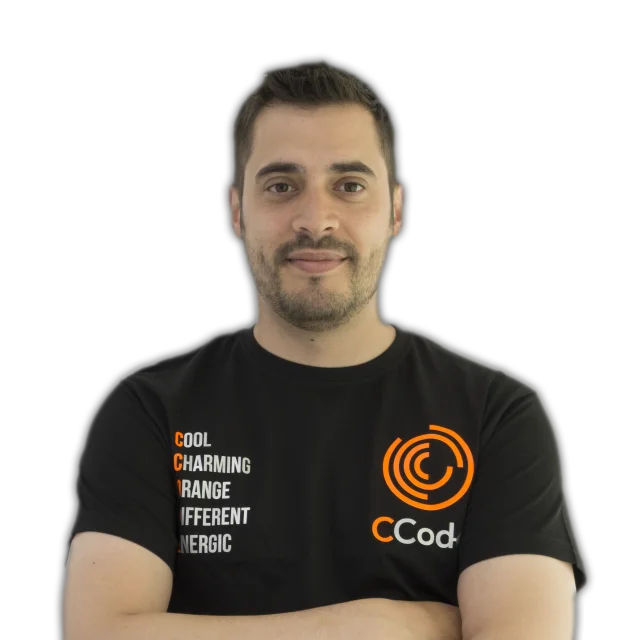
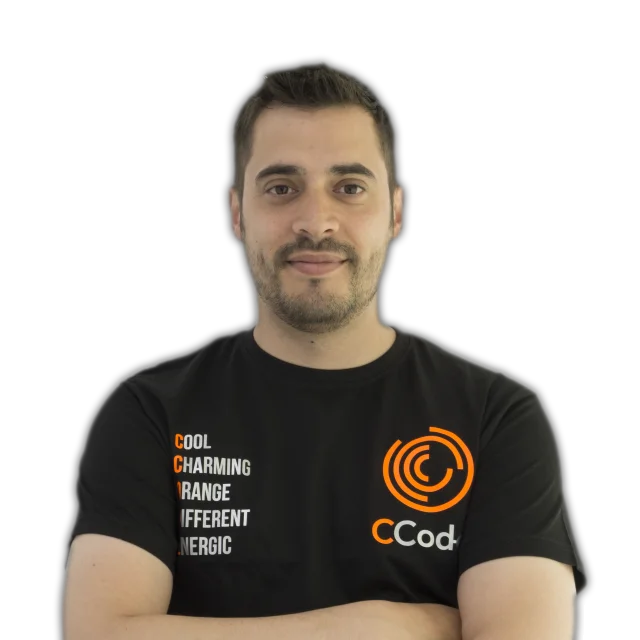
Some more team images changes

diff --git a/css/style.min.css b/css/style.min.css
@@ -1,1 +1,1 @@
-@import url(font-awesome.min.css);@import url(simpletextrotator.css);@import url(overwrite.css);@import url(animate.css);*{-webkit-overflow-scrolling:touch!important}.paddingHB{padding:15% 0 15% 0!important}.balloon{width:120px;height:145px;padding-top:5%;background:#f05f40;border-radius:80%;position:relative;box-shadow:inset -10px -10px 0 rgba(0,0,0,.07);margin:0 auto;transition:transform .5s ease;z-index:10;animation:balloons 4s ease-in-out infinite;transform-origin:bottom center}@keyframes balloons{0%,100%{transform:translateY(0) rotate(-4deg)}50%{transform:translateY(-25px) rotate(4deg)}}.balloon:before{content:"▲";font-size:20px;color:#f05f40;display:block;text-align:center;width:100%;position:absolute;bottom:-12px;z-index:-100}.balloon:after{top:153px;position:absolute;height:250px;width:1px;margin:0 auto;content:"";background:rgba(0,0,0,.2)}.balloon:nth-child(2){background:#8782c9;animation-duration:3.5s}.balloon:nth-child(2):before{color:#8782c9}.balloon:nth-child(3){background:#65cc86;animation-duration:3s}.balloon:nth-child(3):before{color:#59a571}.balloon:nth-child(4){background:#c9c75e;animation-duration:4.5s}.balloon:nth-child(4):before{color:#a9a85f}.balloon:nth-child(5){background:#cd8355;animation-duration:5s}.balloon:nth-child(5):before{color:#a86941}.workGPU{-webkit-transform:rotateZ(360deg);-moz-transform:rotateZ(360deg);-ms-transform:rotateZ(360deg);-o-transform:rotateZ(360deg);transform:rotateZ(360deg);backface-visibility:hidden;perspective:1000}::-webkit-scrollbar-track{-webkit-box-shadow:inset 0 0 6px rgba(0,0,0,.3);border-radius:10px;background-color:#f5f5f5}::-webkit-scrollbar{width:8px;height:8px;border-radius:10px;background-color:#f5f5f5}::-webkit-scrollbar-thumb{border-radius:10px;-webkit-box-shadow:inset 0 0 6px rgba(0,0,0,.3);background-color:#bdbdbd}body{text-align:center;font-size:14px;line-height:1.6em}h1{font-size:36px}h2{font-size:32px}h3{font-size:28px}h4{font-size:24px}h5{font-size:20px}h6{font-size:18px}.h1,.h2,.h3,.h4,.h5,.h6,h1,h2,h3,h4,h5,h6{color:#3a3a3a;font-weight:700;margin-bottom:20px;font-family:Montserrat,sans-serif}textarea{resize:none}#particles-js{width:100%;height:100%;background-image:url('');background-size:cover;background-position:50% 50%;background-repeat:no-repeat;opacity:.2}.lead{font-weight:400}.noselect{-webkit-touch-callout:none;-webkit-user-select:none;-khtml-user-select:none;-moz-user-select:none;-ms-user-select:none;user-select:none}.loadingContainer{position:fixed;top:0;left:0;padding:0!important;height:100%;width:100%;z-index:99999;flex-flow:row wrap;justify-content:space-around}.loadingContainer .item{width:100%;height:100%;background:rgba(246,249,255,.8);border-radius:3px;position:relative}.loadingContainer .loader{width:10px;height:48px;background:#e64a19;position:relative;animation:loaderAnimation 1s ease-in-out infinite;animation-delay:.4s;top:50%;margin:-28px auto 0}.loadingContainer .loader::after,.loadingContainer .loader::before{content:'';position:absolute;width:10px;height:48px;background:#e64a19;animation:loaderAnimation 1s ease-in-out infinite}.loadingContainer .loader::before{right:18px;animation-delay:.2s}.loadingContainer .loader::after{left:18px;animation-delay:.6s}@keyframes loaderAnimation{0%,100%{box-shadow:0 0 0 #e64a19,0 0 0 #e64a19}50%{box-shadow:0 -8px 0 #e64a19,0 8px 0 #e64a19}}button{display:inline-block;margin-bottom:0;margin-bottom:10px;padding:6px 12px;border:1px solid transparent;vertical-align:middle;text-align:center;white-space:nowrap;font-weight:400;font-size:14px;line-height:1.428571429;cursor:pointer;-webkit-user-select:none;-moz-user-select:none;-ms-user-select:none;-o-user-select:none;user-select:none}button.navbar-toggle{background:#2b2b2b;border:none;color:#fff}.btn-theme,.btn-theme:focus,.btn-theme:hover{color:#fff;border-radius:25px;outline:0!important}.btn-theme:hover{background:0 0!important;border-color:#999;color:#999}.low-shadow{box-shadow:0 10px 20px rgba(0,0,0,.19),0 6px 6px rgba(0,0,0,.23)}.parallax h2,.parallax p{text-shadow:0 3px 6px rgba(0,0,0,.16),0 3px 6px rgba(0,0,0,.23)}.serviceIMG{width:80%;display:block;margin-left:auto;margin-right:auto;transition:transform .4s ease}.serviceIMG:hover{transform:scale(1.4);box-shadow:0 14px 28px rgba(0,0,0,.25),0 10px 10px rgba(0,0,0,.22)}.contact-interaction{transition:transform .5s ease}.contact-interaction:hover{transform:scale(1.3)}.InputAddOn{display:flex;transition:border-color ease-in-out .15s,box-shadow ease-in-out .15s}.InputAddOn-field{flex:1}.InputAddOn-field:not(:first-child){border-left:0}.InputAddOn-field:not(:last-child){border-right:0}.form-control{height:auto!important}.InputAddOn-item{background-color:rgba(147,128,108,.1);color:#666;font:inherit;font-weight:400}.InputAddOn-field,.InputAddOn-item{border:1px solid rgba(147,128,108,.25);padding:.5em .75em}.InputAddOn-field:first-child,.InputAddOn-item:first-child{border-radius:2px 0 0 2px}.InputAddOn-field:last-child,.InputAddOn-item:last-child{border-radius:0 2px 2px 0}.tippy-tooltip.ccode-theme{background-color:#f05f40}.tippy-tooltip.ccode-theme[data-animatefill]{background-color:transparent}.tippy-tooltip.ccode-theme .tippy-backdrop{background-color:#f05f40}.tippy-tooltip.ccode-theme[x-placement^=bottom] .tippy-arrow{border-bottom-color:#f05f40!important}.imgFlag{box-shadow:0 1px 3px rgba(0,0,0,.12),0 1px 2px rgba(0,0,0,.24)}@media (min-width:1025px){.navbar-default .navbar-brand{padding:5%!important}.introTitle{text-align:center;overflow:hidden;transition:all .4s linear}.introTitle h2{font-size:28px!important;text-shadow:0 3px 6px rgba(0,0,0,.16),0 3px 6px rgba(0,0,0,.23)}.introTitle div{display:inline-block;overflow:hidden;white-space:nowrap}.introTitle div:first-of-type{animation:showup 10s infinite}.introTitle div:last-of-type{width:0;animation:reveal 10s infinite}.introTitle div:last-of-type h2{margin-left:-850px;animation:slidein 10s infinite}@keyframes showup{0%{opacity:0}20%{opacity:1}80%{opacity:1}100%{opacity:0}}@keyframes slidein{0%{margin-left:-850px}20%{margin-left:-850px}35%{margin-left:0}100%{margin-left:0}}@keyframes reveal{0%{opacity:0;width:0}20%{opacity:1;width:0}30%{width:auto}80%{opacity:1}100%{opacity:0;width:auto}}.btn-get-started{font-size:20px!important}}@media (min-width:768px) and (max-width:1024px){.navbar-nav{float:right!important}.introTitle{text-align:center;overflow:hidden;transition:all .4s linear}.introTitle div{display:inline-block;overflow:hidden;white-space:nowrap}.introTitle h2{font-size:24px!important;text-shadow:0 3px 6px rgba(0,0,0,.16),0 3px 6px rgba(0,0,0,.23)}.btn-get-started{font-size:20px!important}.back-to-top{bottom:15px}}@media (min-width:481px) and (max-width:767px){.navbar-nav{float:left!important}.introTitle{text-align:center;overflow:hidden;transition:all .4s linear}.introTitle div{display:inline-block;overflow:hidden;white-space:nowrap}.introTitle h2{font-size:18px!important;text-shadow:0 3px 6px rgba(0,0,0,.16),0 3px 6px rgba(0,0,0,.23)}.btn-get-started{font-size:18px!important}.back-to-top{bottom:15px}}@media (min-width:320px) and (max-width:480px){.introTitle h2{font-size:16px!important;text-shadow:0 3px 6px rgba(0,0,0,.16),0 3px 6px rgba(0,0,0,.23)}.btn-get-started{font-size:16px!important}.back-to-top{bottom:15px}.box-team h5{margin-top:10%;font-size:16px}}.box-team img{margin-bottom:10px!important}.teamIMG{cursor:pointer;width:70%;display:block;margin-left:auto;margin-right:auto;background:linear-gradient(270deg,#f05f40,#ff7043,#e64a19)!important}.teamIMGRow{padding:0 3% 0 3%}.teamLink{text-decoration:none;color:#fff;font-size:14px}.teamLink:hover{color:#212121}.fixedHiring{position:fixed;bottom:5%;right:3%;z-index:999}.fixedHiring img{height:80px;width:80px;transition:all .2s;cursor:pointer;-webkit-animation:rotation 3s infinite linear}@-webkit-keyframes rotation{from{-webkit-transform:rotate(0)}to{-webkit-transform:rotate(359deg)}}.tooltip.left{display:inline-block;margin:0 auto;opacity:1;position:relative}.tooltip.left .tooltip-inner{box-shadow:0 14px 28px rgba(0,0,0,.25),0 10px 10px rgba(0,0,0,.22)}.tooltip.left .tooltip-arrow{box-shadow:0 14px 28px rgba(0,0,0,.25),0 10px 10px rgba(0,0,0,.22)}margin{margin-top:10px}.mar-top20{margin-top:20px}.mar-top30{margin-top:30px}.mar-top40{margin-top:40px}.back-to-top{position:fixed;display:none;padding:6px 12px 9px 12px;font-size:16px;border-radius:2px;right:15px;bottom:15px;transition:background .5s;z-index:1000;box-shadow:0 10px 20px rgba(0,0,0,.19),0 6px 6px rgba(0,0,0,.23)}.back-to-top:focus{outline:0}@-webkit-keyframes AnimationName{0%{background-position:0 50%}50%{background-position:100% 50%}100%{background-position:0 50%}}@-moz-keyframes AnimationName{0%{background-position:0 50%}50%{background-position:100% 50%}100%{background-position:0 50%}}@keyframes AnimationName{0%{background-position:0 50%}50%{background-position:100% 50%}100%{background-position:0 50%}}nav.navbar{position:fixed;top:-72px;margin-bottom:0;padding:10px 0 10px 0;width:100%;border-radius:0;transition:all .2s}.navbar-nav{float:right}nav.navbar.fixed-to-top{top:0}.navbar-default{border:none;border-bottom:none;opacity:1;display:none;background-size:600% 600%!important;-webkit-animation:AnimationName 30s ease infinite;-moz-animation:AnimationName 30s ease infinite;animation:AnimationName 30s ease infinite;z-index:9998;box-shadow:0 3px 6px rgba(0,0,0,.16),0 3px 6px rgba(0,0,0,.23)}.navbar-default .navbar-nav>li>a{color:#fff;font-weight:700;text-transform:uppercase}.navbar-default .navbar-nav>li>a:focus,.navbar-default .navbar-nav>li>a:hover{color:#3a3a3a;cursor:pointer;-webkit-transition:all .3s ease-in-out;-moz-transition:all .3s ease-in-out;-ms-transition:all .3s ease-in-out;-o-transition:all .3s ease-in-out;transition:all .3s ease-in-out;outline:0}.navbar-default .navbar-brand{color:#fff;text-transform:uppercase;font-weight:700;font-size:2em}.home-section{width:100%;padding:150px 0 150px 0}.section-heading{margin-bottom:50px}.section-heading h2{font-size:38px;text-transform:uppercase}.aboutUS h3{font-weight:400;color:#777;font-weight:300;font-size:18px;line-height:26px;font-style:italic}.section-heading .heading-line{margin:0 auto;display:block;height:1px;width:80px;background:#333;margin-top:10px;margin-bottom:20px}.bg-white{background:#fff}.bg-gray{background:#f8f8f8}.bg-dark{background:#575757}.color-light h1,.color-light h2,.color-light h3,.color-light h4,.color-light h5,.color-light h6{color:#fff}.color-light p{color:#eee}.no-webp #parallax1{background-image:url(../img/parallax/2.jpg)}.webp #parallax1{background-image:url(../img/parallax/2.webp)}.no-webp #parallax2{background-image:url(../img/parallax/1.jpg)}.webp #parallax2{background-image:url(../img/parallax/1.webp)}.shadowedIMG{-webkit-filter:drop-shadow(1px 1px 1px #eee);filter:drop-shadow(1px 1px 1px #eee)}#intro{width:100%;height:100vh;background-color:rgba(0,0,0,.3)}#intro .item{width:100%;height:100vh;background-size:cover;background-position:center;background-repeat:no-repeat}#intro .item::before{content:'';background-color:rgba(0,0,0,.3);position:absolute;height:100%;width:100%;top:0;right:0;left:0;bottom:0}#intro .carousel.slide{box-shadow:0 3px 6px rgba(0,0,0,.16),0 3px 6px rgba(0,0,0,.23)}#intro .carousel-container{display:-webkit-box;display:-webkit-flex;display:-ms-flexbox;display:flex;-webkit-box-pack:center;-webkit-justify-content:center;-ms-flex-pack:center;justify-content:center;-webkit-box-align:center;-webkit-align-items:center;-ms-flex-align:center;align-items:center;position:absolute;bottom:0;top:0;left:0;right:0}#intro .carousel-content{text-align:center}#intro h2{color:#fff;margin-bottom:30px;font-size:48px;font-weight:700}#intro p{width:70%;-webkit-animation-delay:.4s;animation-delay:.4s;margin:0 auto 30px auto;color:#fff}@media (max-width:768px){#intro h2{font-size:36px}}#intro .carousel-inner .item{transition-property:opacity;background-position:center top}#intro .carousel-inner .active.left,#intro .carousel-inner .active.right,#intro .carousel-inner .item{opacity:0}#intro .carousel-inner .active,#intro .carousel-inner .next.left,#intro .carousel-inner .prev.right{opacity:1;transition:.9s}#intro .carousel-inner .active.left,#intro .carousel-inner .active.right,#intro .carousel-inner .next,#intro .carousel-inner .prev{left:0;-webkit-transform:translate3d(0,0,0);transform:translate3d(0,0,0)}#intro .carousel-control-next,#intro .carousel-control-prev{color:#fff;position:absolute;top:calc(50% - 15px)}#intro .carousel-control-prev{left:20px}#intro .carousel-control-next{right:20px}#intro .carousel-control-next-icon,#intro .carousel-control-prev-icon{background:0 0;font-size:48px;line-height:1}#intro .carousel-indicators{cursor:pointer}#intro .btn-get-started{font-family:Raleway,sans-serif;font-weight:800;letter-spacing:1px;display:inline-block;padding:12px 32px;border-radius:3px;transition:.5s;line-height:1;margin:10px;color:#fff;-webkit-animation-delay:.8s;animation-delay:.8s;border:2px solid #f05f40;text-rendering:optimizeLegibility;-webkit-font-smoothing:antialiased;text-decoration:none}#intro .btn-get-started:hover{background:#f05f40;color:#fff}#intro .btn-get-started span{cursor:pointer;display:inline-block;position:relative;transition:.5s}#intro .btn-get-started span:after{content:'\00bb';position:absolute;opacity:0;top:0;right:-20px;transition:.5s}#intro .btn-get-started:hover span{padding-right:25px}#intro .btn-get-started:hover span:after{opacity:1;right:0}.card img,.card source{border-radius:50%;max-width:100%;max-height:100%;box-shadow:0 19px 38px rgba(0,0,0,.3),0 15px 12px rgba(0,0,0,.22);transition:all .2s}.card img:hover,.card source:hover{transform:scale(1.4);cursor:pointer}.card-text,.card-title{color:#f5f5f5;text-shadow:0 3px 6px rgba(0,0,0,.16),0 3px 6px rgba(0,0,0,.23)}.card.first{float:left;text-align:left;box-shadow:0 14px 28px rgba(0,0,0,.25),0 10px 10px rgba(0,0,0,.22);padding:5%;width:60%;border-top-left-radius:10px;border-top-right-radius:25px;border-bottom-left-radius:10px;border-bottom-right-radius:25px;-webkit-background-size:cover;-moz-background-size:cover;-o-background-size:cover;background-size:cover;color:#f5f5f5;margin-bottom:5%;background-repeat:no-repeat;background-position:center;background-attachment:fixed}.no-webp .card.first{background:url(../img/services/back_1.jpg)!important}.webp .card.first{background-image:url(../img/services/back_1.webp)!important}.card.second{float:right;text-align:right;box-shadow:0 14px 28px rgba(0,0,0,.25),0 10px 10px rgba(0,0,0,.22);padding:5%;width:60%;border-top-left-radius:25px;border-top-right-radius:10px;border-bottom-left-radius:25px;border-bottom-right-radius:10px;-webkit-background-size:cover;-moz-background-size:cover;-o-background-size:cover;background-size:cover;color:#f5f5f5;margin-bottom:5%;background-repeat:no-repeat;background-position:center;background-attachment:fixed}.no-webp .card.second{background:url(../img/services/back_2.jpg)!important}.webp .card.second{background-image:url(../img/services/back_2.webp)!important}.card.third{float:left;text-align:left;box-shadow:0 14px 28px rgba(0,0,0,.25),0 10px 10px rgba(0,0,0,.22);padding:5%;width:60%;border-top-left-radius:10px;border-top-right-radius:25px;border-bottom-left-radius:10px;border-bottom-right-radius:25px;-webkit-background-size:cover;-moz-background-size:cover;-o-background-size:cover;background-size:cover;color:#f5f5f5;background-repeat:no-repeat;background-position:center center;background-attachment:fixed}.no-webp .card.third{background:url(../img/services/back_3.jpg)!important}.webp .card.third{background-image:url(../img/services/back_3.webp)!important}@media screen and (max-width:600px){.card img{visibility:hidden;display:none}.card.first,.card.second,.card.third{width:75%!important}}#about .about-img{height:350px;overflow:hidden}#about .about-img img{box-shadow:0 3px 6px rgba(0,0,0,.16),0 3px 6px rgba(0,0,0,.23)}#about .about-img img{margin-left:-15px;max-width:100%}@media (max-width:768px){#about .about-img{height:auto}#about .about-img img{margin-left:0;margin-bottom:20px}}#about .content h2{color:#333;font-weight:300;font-size:24px;text-align:left}#about .content h3{color:#777;font-weight:300;font-size:18px;line-height:26px;font-style:italic;text-align:left}#about .content p{line-height:26px;text-align:left}#about .content p:last-child{margin-bottom:0}.service.carousel h4,.service.carousel p{text-align:left}.service img{width:70%}.og-grid{list-style:none;padding:20px 0;margin:0 auto;text-align:center;width:100%}.og-grid li{display:inline-block;margin:10px 5px 0 5px;vertical-align:top;height:250px}.og-grid li>a,.og-grid li>a img{border:none;outline:0;display:block;position:relative}.og-grid li.og-expanded>a::after{top:auto;border:solid transparent;content:" ";height:0;width:0;position:absolute;pointer-events:none;border-bottom-color:none;border-width:15px;left:50%;margin:-20px 0 0 -15px}.og-expander{position:absolute;background:#fff;top:auto;left:0;width:100%;margin-top:10px;text-align:left;height:0;overflow:hidden}.og-expander-inner{padding:50px 0;height:100%}.og-close{position:absolute;width:40px;height:40px;top:20px;right:20px;cursor:pointer}.og-close::after,.og-close::before{content:'';position:absolute;width:100%;top:50%;height:1px;background:#888;-webkit-transform:rotate(45deg);-moz-transform:rotate(45deg);transform:rotate(45deg)}.og-close::after{-webkit-transform:rotate(-45deg);-moz-transform:rotate(-45deg);transform:rotate(-45deg)}.og-close:hover::after,.og-close:hover::before{background:#333}.og-details,.og-fullimg{width:50%;float:left;height:100%;overflow:hidden;position:relative}.og-details{padding:0 40px 0 0}.og-fullimg{text-align:center}.og-fullimg img{display:inline-block;max-height:100%;max-width:100%}.og-details h4{font-weight:300;margin-bottom:10px}.og-details p{font-weight:300;font-size:16px;line-height:1.6em;color:#555}.og-details a{font-weight:700;display:inline-block;margin:30px 0 0;outline:0}.og-details a:hover{border-color:#999;color:#999}.og-loading{width:20px;height:20px;border-radius:50%;background:#ddd;box-shadow:0 0 1px #ccc,15px 30px 1px #ccc,-15px 30px 1px #ccc;position:absolute;top:50%;left:50%;margin:-25px 0 0 -25px;-webkit-animation:loader .5s infinite ease-in-out both;-moz-animation:loader .5s infinite ease-in-out both;animation:loader .5s infinite ease-in-out both}@-webkit-keyframes loader{0%{background:#ddd}33%{background:#ccc;box-shadow:0 0 1px #ccc,15px 30px 1px #ccc,-15px 30px 1px #ddd}66%{background:#ccc;box-shadow:0 0 1px #ccc,15px 30px 1px #ddd,-15px 30px 1px #ccc}}@-moz-keyframes loader{0%{background:#ddd}33%{background:#ccc;box-shadow:0 0 1px #ccc,15px 30px 1px #ccc,-15px 30px 1px #ddd}66%{background:#ccc;box-shadow:0 0 1px #ccc,15px 30px 1px #ddd,-15px 30px 1px #ccc}}@keyframes loader{0%{background:#ddd}33%{background:#ccc;box-shadow:0 0 1px #ccc,15px 30px 1px #ccc,-15px 30px 1px #ddd}66%{background:#ccc;box-shadow:0 0 1px #ccc,15px 30px 1px #ddd,-15px 30px 1px #ccc}}@media screen and (max-width:830px){.og-expander h3{font-size:32px}.og-expander p{font-size:13px}.og-expander a{font-size:12px}}@media screen and (max-width:650px){.og-fullimg{display:none}.og-details{float:none;width:100%}}.validation{color:red;display:none;margin:0;font-weight:400;font-size:13px}#sendmessage{color:green;border:1px solid green;display:none;text-align:center;padding:15px;font-weight:600;margin-bottom:15px}#errormessage{color:red;display:none;border:1px solid red;text-align:center;padding:15px;font-weight:600;margin-bottom:15px}#errormessage.show,#sendmessage.show,.show{display:block}ul.clients{list-style:none;padding:0}ul.clients li{display:inline;margin-right:5%}ul.clients img{transition:all .3s}ul.clients img:hover{transform:scale(1.2);border:none;background:0 0}@media (max-width:767px){ul.clients li a img{width:25%;height:25%}}@media (max-width:1023px){ul.clients li a img{width:20%;height:20%}}@media (min-width:1024px){ul.clients li a img{width:15%;height:15%}}#bottom-widget{overflow:hidden}ul.social-network{margin:0;margin-left:0;padding-left:0;list-style:none}ul.social-network li{display:inline;margin:5px 5px}ul.social-network li a:hover span .fa-circle{color:#2b2b2b}ul.social-network li a i{transition:.3s}footer{background:#f05f40;color:#fff;padding:50px 0 30px;box-shadow:0 10px 20px rgba(0,0,0,.19),0 6px 6px rgba(0,0,0,.23)}footer a{color:#fff}footer a:hover{color:#fff;text-decoration:underline}@media (max-width:768px){header{padding-bottom:50px;min-height:1000px;height:100%}.navbar-nav{float:left;text-align:left}.box-team,.box-team img{text-align:center}.box-team img{float:none;margin:0 auto}.og-fullimg{display:none}.og-details{float:none;width:100%;padding:0 40px}}@media (max-width:992px){.service.carousel .item h4,.service.carousel .item p{text-align:center}.service p{margin-bottom:60px}.og-expander{background:0 0}.og-details{padding:0 20px}}@media (max-width:480px){.detail .screenshot,header .carousel-iphone{width:280px}.detail .screenshot img,header .carousel{padding-top:85px;width:245px}.service .screenshot img{margin-top:-12px;padding-top:0}header{padding-top:30px;padding-bottom:0}header h1{font-size:70px}}
+@import url(font-awesome.min.css);@import url(simpletextrotator.css);@import url(overwrite.css);@import url(animate.css);*{-webkit-overflow-scrolling:touch!important}.paddingHB{padding:15% 0 15% 0!important}.balloon{width:120px;height:145px;padding-top:5%;background:#f05f40;border-radius:80%;position:relative;box-shadow:inset -10px -10px 0 rgba(0,0,0,.07);margin:0 auto;transition:transform .5s ease;z-index:10;animation:balloons 4s ease-in-out infinite;transform-origin:bottom center}@keyframes balloons{0%,100%{transform:translateY(0) rotate(-4deg)}50%{transform:translateY(-25px) rotate(4deg)}}.balloon:before{content:"▲";font-size:20px;color:#f05f40;display:block;text-align:center;width:100%;position:absolute;bottom:-12px;z-index:-100}.balloon:after{top:153px;position:absolute;height:250px;width:1px;margin:0 auto;content:"";background:rgba(0,0,0,.2)}.balloon:nth-child(2){background:#8782c9;animation-duration:3.5s}.balloon:nth-child(2):before{color:#8782c9}.balloon:nth-child(3){background:#65cc86;animation-duration:3s}.balloon:nth-child(3):before{color:#59a571}.balloon:nth-child(4){background:#c9c75e;animation-duration:4.5s}.balloon:nth-child(4):before{color:#a9a85f}.balloon:nth-child(5){background:#cd8355;animation-duration:5s}.balloon:nth-child(5):before{color:#a86941}.workGPU{-webkit-transform:rotateZ(360deg);-moz-transform:rotateZ(360deg);-ms-transform:rotateZ(360deg);-o-transform:rotateZ(360deg);transform:rotateZ(360deg);backface-visibility:hidden;perspective:1000}::-webkit-scrollbar-track{-webkit-box-shadow:inset 0 0 6px rgba(0,0,0,.3);border-radius:10px;background-color:#f5f5f5}::-webkit-scrollbar{width:8px;height:8px;border-radius:10px;background-color:#f5f5f5}::-webkit-scrollbar-thumb{border-radius:10px;-webkit-box-shadow:inset 0 0 6px rgba(0,0,0,.3);background-color:#bdbdbd}body{text-align:center;font-size:14px;line-height:1.6em}h1{font-size:36px}h2{font-size:32px}h3{font-size:28px}h4{font-size:24px}h5{font-size:20px}h6{font-size:16px}.h1,.h2,.h3,.h4,.h5,.h6,h1,h2,h3,h4,h5,h6{color:#3a3a3a;font-weight:700;margin-bottom:20px;font-family:Montserrat,sans-serif}textarea{resize:none}#particles-js{width:100%;height:100%;background-image:url('');background-size:cover;background-position:50% 50%;background-repeat:no-repeat;opacity:.2}.lead{font-weight:400}.noselect{-webkit-touch-callout:none;-webkit-user-select:none;-khtml-user-select:none;-moz-user-select:none;-ms-user-select:none;user-select:none}.loadingContainer{position:fixed;top:0;left:0;padding:0!important;height:100%;width:100%;z-index:99999;flex-flow:row wrap;justify-content:space-around}.loadingContainer .item{width:100%;height:100%;background:rgba(246,249,255,.8);border-radius:3px;position:relative}.loadingContainer .loader{width:10px;height:48px;background:#e64a19;position:relative;animation:loaderAnimation 1s ease-in-out infinite;animation-delay:.4s;top:50%;margin:-28px auto 0}.loadingContainer .loader::after,.loadingContainer .loader::before{content:'';position:absolute;width:10px;height:48px;background:#e64a19;animation:loaderAnimation 1s ease-in-out infinite}.loadingContainer .loader::before{right:18px;animation-delay:.2s}.loadingContainer .loader::after{left:18px;animation-delay:.6s}@keyframes loaderAnimation{0%,100%{box-shadow:0 0 0 #e64a19,0 0 0 #e64a19}50%{box-shadow:0 -8px 0 #e64a19,0 8px 0 #e64a19}}button{display:inline-block;margin-bottom:0;margin-bottom:10px;padding:6px 12px;border:1px solid transparent;vertical-align:middle;text-align:center;white-space:nowrap;font-weight:400;font-size:14px;line-height:1.428571429;cursor:pointer;-webkit-user-select:none;-moz-user-select:none;-ms-user-select:none;-o-user-select:none;user-select:none}button.navbar-toggle{background:#2b2b2b;border:none;color:#fff}.btn-theme,.btn-theme:focus,.btn-theme:hover{color:#fff;border-radius:25px;outline:0!important}.btn-theme:hover{background:0 0!important;border-color:#999;color:#999}.low-shadow{box-shadow:0 10px 20px rgba(0,0,0,.19),0 6px 6px rgba(0,0,0,.23)}.parallax h2,.parallax p{text-shadow:0 3px 6px rgba(0,0,0,.16),0 3px 6px rgba(0,0,0,.23)}.serviceIMG{width:80%;display:block;margin-left:auto;margin-right:auto;transition:transform .4s ease}.serviceIMG:hover{transform:scale(1.4);box-shadow:0 14px 28px rgba(0,0,0,.25),0 10px 10px rgba(0,0,0,.22)}.contact-interaction{transition:transform .5s ease}.contact-interaction:hover{transform:scale(1.3)}.InputAddOn{display:flex;transition:border-color ease-in-out .15s,box-shadow ease-in-out .15s}.InputAddOn-field{flex:1}.InputAddOn-field:not(:first-child){border-left:0}.InputAddOn-field:not(:last-child){border-right:0}.form-control{height:auto!important}.InputAddOn-item{background-color:rgba(147,128,108,.1);color:#666;font:inherit;font-weight:400}.InputAddOn-field,.InputAddOn-item{border:1px solid rgba(147,128,108,.25);padding:.5em .75em}.InputAddOn-field:first-child,.InputAddOn-item:first-child{border-radius:2px 0 0 2px}.InputAddOn-field:last-child,.InputAddOn-item:last-child{border-radius:0 2px 2px 0}.tippy-tooltip.ccode-theme{background-color:#f05f40}.tippy-tooltip.ccode-theme[data-animatefill]{background-color:transparent}.tippy-tooltip.ccode-theme .tippy-backdrop{background-color:#f05f40}.tippy-tooltip.ccode-theme[x-placement^=bottom] .tippy-arrow{border-bottom-color:#f05f40!important}.imgFlag{box-shadow:0 1px 3px rgba(0,0,0,.12),0 1px 2px rgba(0,0,0,.24)}@media (min-width:1025px){.navbar-default .navbar-brand{padding:5%!important}.introTitle{text-align:center;overflow:hidden;transition:all .4s linear}.introTitle h2{font-size:28px!important;text-shadow:0 3px 6px rgba(0,0,0,.16),0 3px 6px rgba(0,0,0,.23)}.introTitle div{display:inline-block;overflow:hidden;white-space:nowrap}.introTitle div:first-of-type{animation:showup 10s infinite}.introTitle div:last-of-type{width:0;animation:reveal 10s infinite}.introTitle div:last-of-type h2{margin-left:-850px;animation:slidein 10s infinite}@keyframes showup{0%{opacity:0}20%{opacity:1}80%{opacity:1}100%{opacity:0}}@keyframes slidein{0%{margin-left:-850px}20%{margin-left:-850px}35%{margin-left:0}100%{margin-left:0}}@keyframes reveal{0%{opacity:0;width:0}20%{opacity:1;width:0}30%{width:auto}80%{opacity:1}100%{opacity:0;width:auto}}.btn-get-started{font-size:20px!important}}@media (min-width:768px) and (max-width:1024px){.navbar-nav{float:right!important}.introTitle{text-align:center;overflow:hidden;transition:all .4s linear}.introTitle div{display:inline-block;overflow:hidden;white-space:nowrap}.introTitle h2{font-size:24px!important;text-shadow:0 3px 6px rgba(0,0,0,.16),0 3px 6px rgba(0,0,0,.23)}.btn-get-started{font-size:20px!important}.back-to-top{bottom:15px}}@media (min-width:481px) and (max-width:767px){.navbar-nav{float:left!important}.introTitle{text-align:center;overflow:hidden;transition:all .4s linear}.introTitle div{display:inline-block;overflow:hidden;white-space:nowrap}.introTitle h2{font-size:18px!important;text-shadow:0 3px 6px rgba(0,0,0,.16),0 3px 6px rgba(0,0,0,.23)}.btn-get-started{font-size:18px!important}.back-to-top{bottom:15px}}@media (min-width:320px) and (max-width:480px){.introTitle h2{font-size:16px!important;text-shadow:0 3px 6px rgba(0,0,0,.16),0 3px 6px rgba(0,0,0,.23)}.btn-get-started{font-size:16px!important}.back-to-top{bottom:15px}.box-team h5{margin-top:10%;font-size:16px}}.box-team img{margin-bottom:10px!important}.teamIMG{width:70%;display:block;margin-left:auto;margin-right:auto}.teamIMG p{font-size:14px!important}.teamIMGRow{padding:0 3% 0 3%}.teamLink{text-decoration:none;color:#fff;font-size:14px}.teamLink:hover{color:#212121}.fixedHiring{position:fixed;bottom:5%;right:3%;z-index:999}.fixedHiring img{height:80px;width:80px;transition:all .2s;cursor:pointer;-webkit-animation:rotation 3s infinite linear}@-webkit-keyframes rotation{from{-webkit-transform:rotate(0)}to{-webkit-transform:rotate(359deg)}}.tooltip.left{display:inline-block;margin:0 auto;opacity:1;position:relative}.tooltip.left .tooltip-inner{box-shadow:0 14px 28px rgba(0,0,0,.25),0 10px 10px rgba(0,0,0,.22)}.tooltip.left .tooltip-arrow{box-shadow:0 14px 28px rgba(0,0,0,.25),0 10px 10px rgba(0,0,0,.22)}margin{margin-top:10px}.mar-top20{margin-top:20px}.mar-top30{margin-top:30px}.mar-top40{margin-top:40px}.back-to-top{position:fixed;display:none;padding:6px 12px 9px 12px;font-size:16px;border-radius:2px;right:15px;bottom:15px;transition:background .5s;z-index:1000;box-shadow:0 10px 20px rgba(0,0,0,.19),0 6px 6px rgba(0,0,0,.23)}.back-to-top:focus{outline:0}@-webkit-keyframes AnimationName{0%{background-position:0 50%}50%{background-position:100% 50%}100%{background-position:0 50%}}@-moz-keyframes AnimationName{0%{background-position:0 50%}50%{background-position:100% 50%}100%{background-position:0 50%}}@keyframes AnimationName{0%{background-position:0 50%}50%{background-position:100% 50%}100%{background-position:0 50%}}nav.navbar{position:fixed;top:-72px;margin-bottom:0;padding:10px 0 10px 0;width:100%;border-radius:0;transition:all .2s}.navbar-nav{float:right}nav.navbar.fixed-to-top{top:0}.navbar-default{border:none;border-bottom:none;opacity:1;display:none;background-size:600% 600%!important;-webkit-animation:AnimationName 30s ease infinite;-moz-animation:AnimationName 30s ease infinite;animation:AnimationName 30s ease infinite;z-index:9998;box-shadow:0 3px 6px rgba(0,0,0,.16),0 3px 6px rgba(0,0,0,.23)}.navbar-default .navbar-nav>li>a{color:#fff;font-weight:700;text-transform:uppercase}.navbar-default .navbar-nav>li>a:focus,.navbar-default .navbar-nav>li>a:hover{color:#3a3a3a;cursor:pointer;-webkit-transition:all .3s ease-in-out;-moz-transition:all .3s ease-in-out;-ms-transition:all .3s ease-in-out;-o-transition:all .3s ease-in-out;transition:all .3s ease-in-out;outline:0}.navbar-default .navbar-brand{color:#fff;text-transform:uppercase;font-weight:700;font-size:2em}.home-section{width:100%;padding:150px 0 150px 0}.section-heading{margin-bottom:50px}.section-heading h2{font-size:38px;text-transform:uppercase}.aboutUS h3{font-weight:400;color:#777;font-weight:300;font-size:18px;line-height:26px;font-style:italic}.section-heading .heading-line{margin:0 auto;display:block;height:1px;width:80px;background:#333;margin-top:10px;margin-bottom:20px}.bg-white{background:#fff}.bg-gray{background:#f8f8f8}.bg-dark{background:#575757}.color-light h1,.color-light h2,.color-light h3,.color-light h4,.color-light h5,.color-light h6{color:#fff}.color-light p{color:#eee}.no-webp #parallax1{background-image:url(../img/parallax/2.jpg)}.webp #parallax1{background-image:url(../img/parallax/2.webp)}.no-webp #parallax2{background-image:url(../img/parallax/1.jpg)}.webp #parallax2{background-image:url(../img/parallax/1.webp)}.shadowedIMG{-webkit-filter:drop-shadow(1px 1px 1px #eee);filter:drop-shadow(1px 1px 1px #eee)}#intro{width:100%;height:100vh;background-color:rgba(0,0,0,.3)}#intro .item{width:100%;height:100vh;background-size:cover;background-position:center;background-repeat:no-repeat}#intro .item::before{content:'';background-color:rgba(0,0,0,.3);position:absolute;height:100%;width:100%;top:0;right:0;left:0;bottom:0}#intro .carousel.slide{box-shadow:0 3px 6px rgba(0,0,0,.16),0 3px 6px rgba(0,0,0,.23)}#intro .carousel-container{display:-webkit-box;display:-webkit-flex;display:-ms-flexbox;display:flex;-webkit-box-pack:center;-webkit-justify-content:center;-ms-flex-pack:center;justify-content:center;-webkit-box-align:center;-webkit-align-items:center;-ms-flex-align:center;align-items:center;position:absolute;bottom:0;top:0;left:0;right:0}#intro .carousel-content{text-align:center}#intro h2{color:#fff;margin-bottom:30px;font-size:48px;font-weight:700}#intro p{width:70%;-webkit-animation-delay:.4s;animation-delay:.4s;margin:0 auto 30px auto;color:#fff}@media (max-width:768px){#intro h2{font-size:36px}}#intro .carousel-inner .item{transition-property:opacity;background-position:center top}#intro .carousel-inner .active.left,#intro .carousel-inner .active.right,#intro .carousel-inner .item{opacity:0}#intro .carousel-inner .active,#intro .carousel-inner .next.left,#intro .carousel-inner .prev.right{opacity:1;transition:.9s}#intro .carousel-inner .active.left,#intro .carousel-inner .active.right,#intro .carousel-inner .next,#intro .carousel-inner .prev{left:0;-webkit-transform:translate3d(0,0,0);transform:translate3d(0,0,0)}#intro .carousel-control-next,#intro .carousel-control-prev{color:#fff;position:absolute;top:calc(50% - 15px)}#intro .carousel-control-prev{left:20px}#intro .carousel-control-next{right:20px}#intro .carousel-control-next-icon,#intro .carousel-control-prev-icon{background:0 0;font-size:48px;line-height:1}#intro .carousel-indicators{cursor:pointer}#intro .btn-get-started{font-family:Raleway,sans-serif;font-weight:800;letter-spacing:1px;display:inline-block;padding:12px 32px;border-radius:3px;transition:.5s;line-height:1;margin:10px;color:#fff;-webkit-animation-delay:.8s;animation-delay:.8s;border:2px solid #f05f40;text-rendering:optimizeLegibility;-webkit-font-smoothing:antialiased;text-decoration:none}#intro .btn-get-started:hover{background:#f05f40;color:#fff}#intro .btn-get-started span{cursor:pointer;display:inline-block;position:relative;transition:.5s}#intro .btn-get-started span:after{content:'\00bb';position:absolute;opacity:0;top:0;right:-20px;transition:.5s}#intro .btn-get-started:hover span{padding-right:25px}#intro .btn-get-started:hover span:after{opacity:1;right:0}.card img,.card source{border-radius:50%;max-width:100%;max-height:100%;box-shadow:0 19px 38px rgba(0,0,0,.3),0 15px 12px rgba(0,0,0,.22);transition:all .2s}.card img:hover,.card source:hover{transform:scale(1.4);cursor:pointer}.card-text,.card-title{color:#f5f5f5;text-shadow:0 3px 6px rgba(0,0,0,.16),0 3px 6px rgba(0,0,0,.23)}.card.first{float:left;text-align:left;box-shadow:0 14px 28px rgba(0,0,0,.25),0 10px 10px rgba(0,0,0,.22);padding:5%;width:60%;border-top-left-radius:10px;border-top-right-radius:25px;border-bottom-left-radius:10px;border-bottom-right-radius:25px;-webkit-background-size:cover;-moz-background-size:cover;-o-background-size:cover;background-size:cover;color:#f5f5f5;margin-bottom:5%;background-repeat:no-repeat;background-position:center;background-attachment:fixed}.no-webp .card.first{background:url(../img/services/back_1.jpg)!important}.webp .card.first{background-image:url(../img/services/back_1.webp)!important}.card.second{float:right;text-align:right;box-shadow:0 14px 28px rgba(0,0,0,.25),0 10px 10px rgba(0,0,0,.22);padding:5%;width:60%;border-top-left-radius:25px;border-top-right-radius:10px;border-bottom-left-radius:25px;border-bottom-right-radius:10px;-webkit-background-size:cover;-moz-background-size:cover;-o-background-size:cover;background-size:cover;color:#f5f5f5;margin-bottom:5%;background-repeat:no-repeat;background-position:center;background-attachment:fixed}.no-webp .card.second{background:url(../img/services/back_2.jpg)!important}.webp .card.second{background-image:url(../img/services/back_2.webp)!important}.card.third{float:left;text-align:left;box-shadow:0 14px 28px rgba(0,0,0,.25),0 10px 10px rgba(0,0,0,.22);padding:5%;width:60%;border-top-left-radius:10px;border-top-right-radius:25px;border-bottom-left-radius:10px;border-bottom-right-radius:25px;-webkit-background-size:cover;-moz-background-size:cover;-o-background-size:cover;background-size:cover;color:#f5f5f5;background-repeat:no-repeat;background-position:center center;background-attachment:fixed}.no-webp .card.third{background:url(../img/services/back_3.jpg)!important}.webp .card.third{background-image:url(../img/services/back_3.webp)!important}@media screen and (max-width:600px){.card img{visibility:hidden;display:none}.card.first,.card.second,.card.third{width:75%!important}}#about .about-img{height:350px;overflow:hidden}#about .about-img img{box-shadow:0 3px 6px rgba(0,0,0,.16),0 3px 6px rgba(0,0,0,.23)}#about .about-img img{margin-left:-15px;max-width:100%}@media (max-width:768px){#about .about-img{height:auto}#about .about-img img{margin-left:0;margin-bottom:20px}}#about .content h2{color:#333;font-weight:300;font-size:24px;text-align:left}#about .content h3{color:#777;font-weight:300;font-size:18px;line-height:26px;font-style:italic;text-align:left}#about .content p{line-height:26px;text-align:left}#about .content p:last-child{margin-bottom:0}.service.carousel h4,.service.carousel p{text-align:left}.service img{width:70%}.og-grid{list-style:none;padding:20px 0;margin:0 auto;text-align:center;width:100%}.og-grid li{display:inline-block;margin:10px 5px 0 5px;vertical-align:top;height:250px}.og-grid li>a,.og-grid li>a img{border:none;outline:0;display:block;position:relative}.og-grid li.og-expanded>a::after{top:auto;border:solid transparent;content:" ";height:0;width:0;position:absolute;pointer-events:none;border-bottom-color:none;border-width:15px;left:50%;margin:-20px 0 0 -15px}.og-expander{position:absolute;background:#fff;top:auto;left:0;width:100%;margin-top:10px;text-align:left;height:0;overflow:hidden}.og-expander-inner{padding:50px 0;height:100%}.og-close{position:absolute;width:40px;height:40px;top:20px;right:20px;cursor:pointer}.og-close::after,.og-close::before{content:'';position:absolute;width:100%;top:50%;height:1px;background:#888;-webkit-transform:rotate(45deg);-moz-transform:rotate(45deg);transform:rotate(45deg)}.og-close::after{-webkit-transform:rotate(-45deg);-moz-transform:rotate(-45deg);transform:rotate(-45deg)}.og-close:hover::after,.og-close:hover::before{background:#333}.og-details,.og-fullimg{width:50%;float:left;height:100%;overflow:hidden;position:relative}.og-details{padding:0 40px 0 0}.og-fullimg{text-align:center}.og-fullimg img{display:inline-block;max-height:100%;max-width:100%}.og-details h4{font-weight:300;margin-bottom:10px}.og-details p{font-weight:300;font-size:16px;line-height:1.6em;color:#555}.og-details a{font-weight:700;display:inline-block;margin:30px 0 0;outline:0}.og-details a:hover{border-color:#999;color:#999}.og-loading{width:20px;height:20px;border-radius:50%;background:#ddd;box-shadow:0 0 1px #ccc,15px 30px 1px #ccc,-15px 30px 1px #ccc;position:absolute;top:50%;left:50%;margin:-25px 0 0 -25px;-webkit-animation:loader .5s infinite ease-in-out both;-moz-animation:loader .5s infinite ease-in-out both;animation:loader .5s infinite ease-in-out both}@-webkit-keyframes loader{0%{background:#ddd}33%{background:#ccc;box-shadow:0 0 1px #ccc,15px 30px 1px #ccc,-15px 30px 1px #ddd}66%{background:#ccc;box-shadow:0 0 1px #ccc,15px 30px 1px #ddd,-15px 30px 1px #ccc}}@-moz-keyframes loader{0%{background:#ddd}33%{background:#ccc;box-shadow:0 0 1px #ccc,15px 30px 1px #ccc,-15px 30px 1px #ddd}66%{background:#ccc;box-shadow:0 0 1px #ccc,15px 30px 1px #ddd,-15px 30px 1px #ccc}}@keyframes loader{0%{background:#ddd}33%{background:#ccc;box-shadow:0 0 1px #ccc,15px 30px 1px #ccc,-15px 30px 1px #ddd}66%{background:#ccc;box-shadow:0 0 1px #ccc,15px 30px 1px #ddd,-15px 30px 1px #ccc}}@media screen and (max-width:830px){.og-expander h3{font-size:32px}.og-expander p{font-size:13px}.og-expander a{font-size:12px}}@media screen and (max-width:650px){.og-fullimg{display:none}.og-details{float:none;width:100%}}.validation{color:red;display:none;margin:0;font-weight:400;font-size:13px}#sendmessage{color:green;border:1px solid green;display:none;text-align:center;padding:15px;font-weight:600;margin-bottom:15px}#errormessage{color:red;display:none;border:1px solid red;text-align:center;padding:15px;font-weight:600;margin-bottom:15px}#errormessage.show,#sendmessage.show,.show{display:block}ul.clients{list-style:none;padding:0}ul.clients li{display:inline;margin-right:5%}ul.clients img{transition:all .3s}ul.clients img:hover{transform:scale(1.2);border:none;background:0 0}@media (max-width:767px){ul.clients li a img{width:25%;height:25%}}@media (max-width:1023px){ul.clients li a img{width:20%;height:20%}}@media (min-width:1024px){ul.clients li a img{width:15%;height:15%}}#bottom-widget{overflow:hidden}ul.social-network{margin:0;margin-left:0;padding-left:0;list-style:none}ul.social-network li{display:inline;margin:5px 5px}ul.social-network li a:hover span .fa-circle{color:#2b2b2b}ul.social-network li a i{transition:.3s}footer{background:#f05f40;color:#fff;padding:50px 0 30px;box-shadow:0 10px 20px rgba(0,0,0,.19),0 6px 6px rgba(0,0,0,.23)}footer a{color:#fff}footer a:hover{color:#fff;text-decoration:underline}@media (max-width:768px){header{padding-bottom:50px;min-height:1000px;height:100%}.navbar-nav{float:left;text-align:left}.box-team,.box-team img{text-align:center}.box-team img{float:none;margin:0 auto}.og-fullimg{display:none}.og-details{float:none;width:100%;padding:0 40px}}@media (max-width:992px){.service.carousel .item h4,.service.carousel .item p{text-align:center}.service p{margin-bottom:60px}.og-expander{background:0 0}.og-details{padding:0 20px}}@media (max-width:480px){.detail .screenshot,header .carousel-iphone{width:280px}.detail .screenshot img,header .carousel{padding-top:85px;width:245px}.service .screenshot img{margin-top:-12px;padding-top:0}header{padding-top:30px;padding-bottom:0}header h1{font-size:70px}}

diff --git a/index.html b/index.html
@@ -288,9 +288,9 @@
           <div id="teamIMG" class="box-team">
             <div id="mario_birthday" class="">
               <picture>
-                <source class="img-circle img-responsive low-shadow teamIMG imgTeam noselect" srcset="img/team/1.webp"
+                <source class="img-responsive teamIMG imgTeam noselect" srcset="img/team/1.webp"
                   type="image/webp" />
-                <img class="img-circle img-responsive low-shadow teamIMG imgTeam noselect" src="img/team/1.png"
+                <img class="img-responsive teamIMG imgTeam noselect" src="img/team/1.png"
                   alt="Mário Almeida" />
               </picture>
             </div>
@@ -317,9 +317,9 @@
           <div id="teamIMG" class="box-team">
             <div id="marcelo_birthday" class="">
               <picture>
-                <source class="img-circle img-responsive low-shadow teamIMG imgTeam noselect" srcset="img/team/2.webp"
+                <source class="img-responsive teamIMG imgTeam noselect" srcset="img/team/2.webp"
                   type="image/webp" />
-                <img class="img-circle img-responsive low-shadow teamIMG imgTeam noselect" src="img/team/2.png"
+                <img class="img-responsive teamIMG imgTeam noselect" src="img/team/2.png"
                   alt="Marcelo Coelho" />
               </picture>
             </div>
@@ -402,9 +402,9 @@
           <div id="teamIMG" class="box-team">
             <!--<div id="joao_birthday" class="balloon low-shadow">-->
             <picture>
-              <source class="img-circle img-responsive low-shadow teamIMG imgTeam noselect" srcset="img/team/4.webp"
+              <source class="img-responsive teamIMG imgTeam noselect" srcset="img/team/4.webp"
                 type="image/webp" />
-              <img class="img-circle img-responsive low-shadow teamIMG imgTeam noselect" src="img/team/4.png"
+              <img class="img-responsive teamIMG imgTeam noselect" src="img/team/4.png"
                 alt="João Oliveira" />
             </picture>
             <!--</div>-->

diff --git a/css/style.css b/css/style.css
@@ -9,7 +9,7 @@
 
 /* Happy Birthday section */
 /*******************************************************************/
-.paddingHB{
+.paddingHB {
 	padding: 15% 0% 15% 0% !important;
 }
 
@@ -97,6 +97,7 @@
 .balloon:nth-child(5):before {
 	color: hsl(23, 44%, 46%);
 }
+
 /*******************************************************************/
 
 .workGPU {
@@ -155,7 +156,7 @@ h5 {
 }
 
 h6 {
-	font-size: 18px
+	font-size: 16px
 }
 
 .h1,
@@ -593,12 +594,15 @@ button.navbar-toggle {
 }
 
 .teamIMG {
-	cursor: pointer;
 	width: 70%;
 	display: block;
 	margin-left: auto;
 	margin-right: auto;
-	background: linear-gradient(270deg,#f05f40,#ff7043,#e64a19) !important;
+	/*background: linear-gradient(270deg,#f05f40,#ff7043,#e64a19) !important;*/
+}
+
+.teamIMG p {
+	font-size: 14px !important;
 }
 
 .teamIMGRow {
